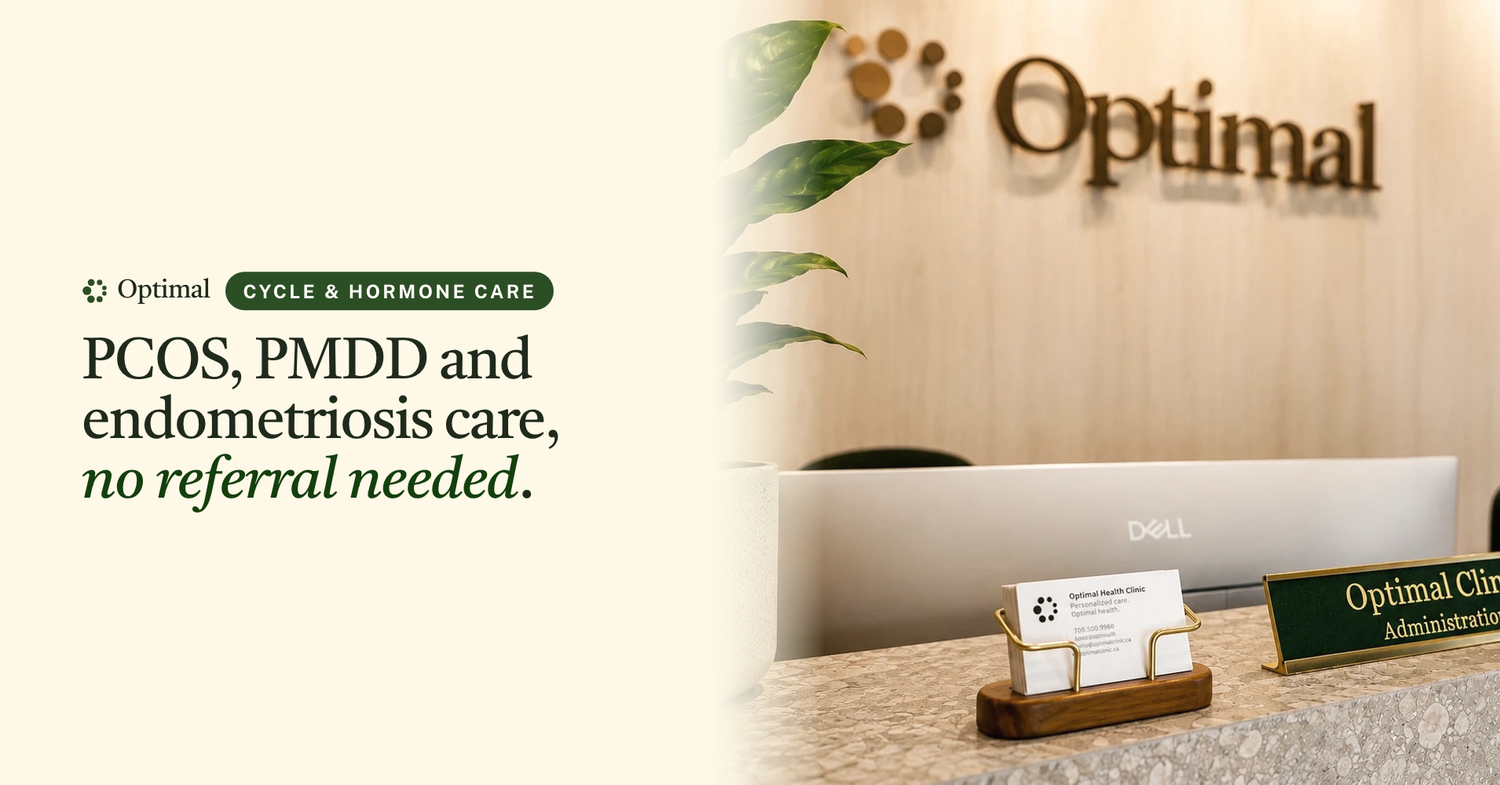
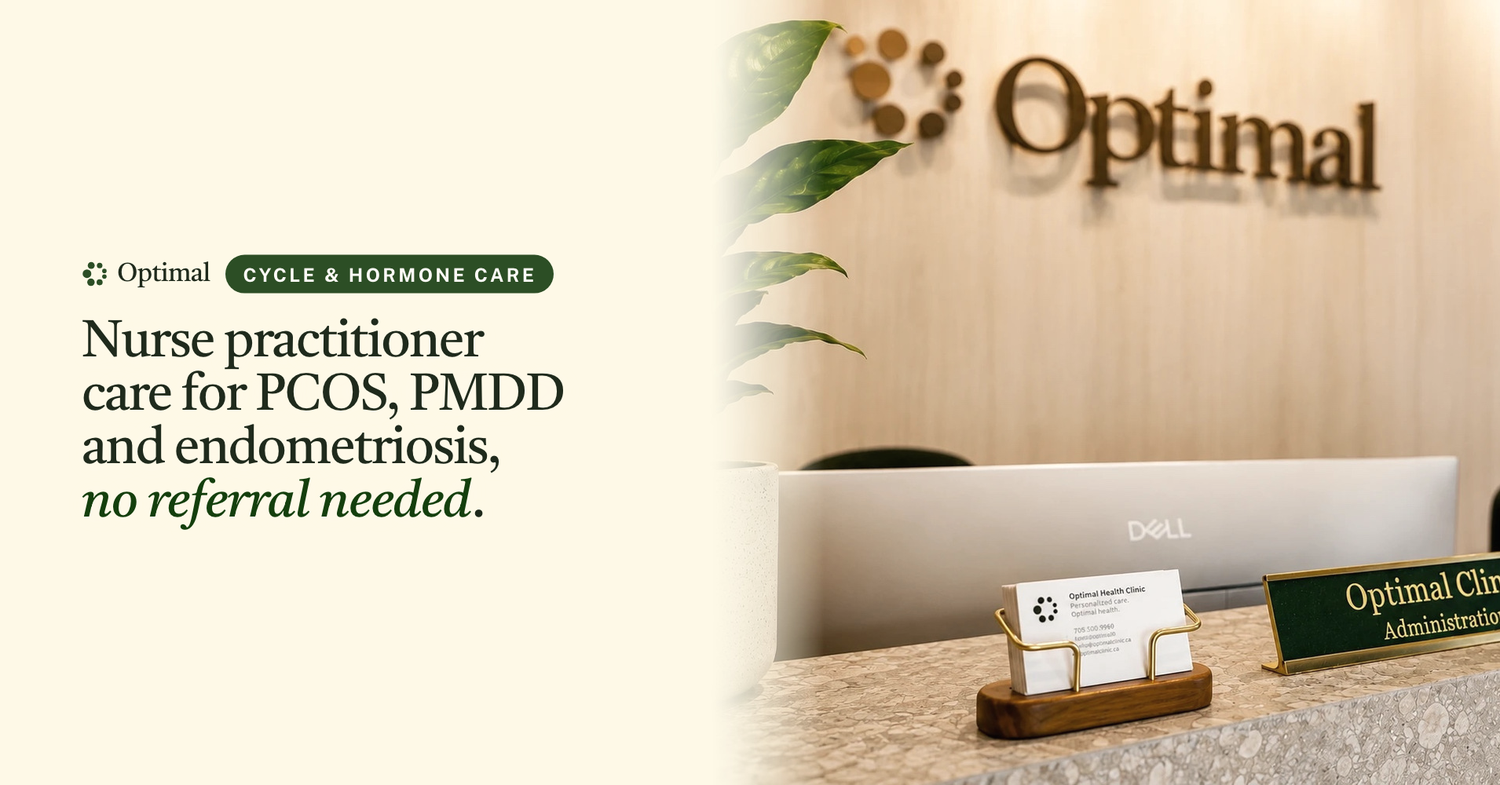
Hand-off site: ads updated Oct 22, 2026

Changed region(s): [[0.0309, 0.31, 0.3707, 0.682]]

diff --git a/index.html b/index.html
@@ -212,16 +212,16 @@
     </div>
     <div>
       <a class="btn" href="https://github.com/Optimal-Research-Team/optimal-ad-handoff/releases/tag/2026-10-12" target="_blank" rel="noopener">All full-quality files ↗</a>
-      <div class="zips">Zips: <a href="https://github.com/Optimal-Research-Team/optimal-ad-handoff/releases/download/2026-10-12/Optimal-static-ads-round-1_2026-10-12.zip" download>Static round 1 · 21 MB</a> <a href="https://github.com/Optimal-Research-Team/optimal-ad-handoff/releases/download/2026-10-12/Optimal-static-ads-round-2_2026-10-12.zip" download>Static round 2 · 72 MB</a> <a href="https://github.com/Optimal-Research-Team/optimal-ad-handoff/releases/download/2026-10-12/Optimal-static-ads-round-3_2026-10-12.zip" download>Static round 3 · 28 MB</a> <a href="https://github.com/Optimal-Research-Team/optimal-ad-handoff/releases/download/2026-10-12/Optimal-IV-iron-ads_2026-10-12.zip" download>IV iron round 1 · 9 MB</a> <a href="https://github.com/Optimal-Research-Team/optimal-ad-handoff/releases/download/2026-10-12/Optimal-IV-iron-ads-round-2_2026-10-12.zip" download>IV iron round 2 · 24 MB</a> <a href="https://github.com/Optimal-Research-Team/optimal-ad-handoff/releases/download/2026-10-12/Optimal-cycle-hormone-statics_2026-10-12.zip" download>Cycle &amp; Hormone statics · 18 MB</a></div>
+      <div class="zips">Zips: <a href="https://github.com/Optimal-Research-Team/optimal-ad-handoff/releases/download/2026-10-12/Optimal-static-ads-round-1_2026-10-12.zip" download>Static round 1 · 21 MB</a> <a href="https://github.com/Optimal-Research-Team/optimal-ad-handoff/releases/download/2026-10-12/Optimal-static-ads-round-2_2026-10-12.zip" download>Static round 2 · 72 MB</a> <a href="https://github.com/Optimal-Research-Team/optimal-ad-handoff/releases/download/2026-10-12/Optimal-static-ads-round-3_2026-10-12.zip" download>Static round 3 · 28 MB</a> <a href="https://github.com/Optimal-Research-Team/optimal-ad-handoff/releases/download/2026-10-12/Optimal-IV-iron-ads_2026-10-12.zip" download>IV iron round 1 · 9 MB</a> <a href="https://github.com/Optimal-Research-Team/optimal-ad-handoff/releases/download/2026-10-12/Optimal-IV-iron-ads-round-2_2026-10-12.zip" download>IV iron round 2 · 24 MB</a> <a href="https://github.com/Optimal-Research-Team/optimal-ad-handoff/releases/download/2026-10-12/Optimal-cycle-hormone-statics_2026-10-12.zip" download>Cycle &amp; Hormone statics · 11 MB</a></div>
     </div>
   </div>
-  <div class="news" id="new"><div class="day latest"><div class="date">Oct 22</div><div><p>New service: Cycle &amp; Hormone Care. Cheryl&#x27;s three video ads (labelled with the program from the first frame), seven one-sentence statics (one Hormozi lever each, funnel-ordered, all pointing to the free 3-minute Cycle Check) and a Google search campaign in four ad groups. Hold everything until the Cycle &amp; Hormone Care page is live (the URL 404s today).</p><div class="ids"><a href="#CV1">CV1</a><a href="#CV2">CV2</a><a href="#CV3">CV3</a><a href="#CS1">CS1</a><a href="#CS2">CS2</a><a href="#CS3">CS3</a><a href="#CS4">CS4</a><a href="#CS5">CS5</a><a href="#CS6">CS6</a><a href="#CS7">CS7</a><a href="#CG1">CG1</a><a href="#CG2">CG2</a><a href="#CG3">CG3</a><a href="#CG4">CG4</a></div></div></div><div class="day"><div class="date">Oct 21</div><div><p>Eight Instagram posts went live, alternating menopause and IV iron: CB1, CB2, MI1, IRT2, MI2, IRT3, MI3, IRT4 (IRT1 was already up). None are on Facebook yet. Chantelle&#x27;s videos: her name title now opens over the room&#x27;s sound instead of dead silence. MV2 shows a blood draw, then the body composition scan. MV3 uses the hormone-levels chart from the menopause page. CB1 loses its opening shot and the 0:30 graphic, and CB2 loses the pause at 0:42.</p><div class="ids"><a href="#ig-CB1">CB1 (post)</a><a href="#ig-CB2">CB2 (post)</a><a href="#ig-MI1">MI1 (post)</a><a href="#ig-IRT2">IRT2 (post)</a><a href="#ig-MI2">MI2 (post)</a><a href="#ig-IRT3">IRT3 (post)</a><a href="#ig-MI3">MI3 (post)</a><a href="#ig-IRT4">IRT4 (post)</a><a href="#MV2">MV2</a><a href="#MV3">MV3</a></div></div></div><div class="day"><div class="date">Oct 20</div><div><p>Chantelle&#x27;s menopause video ads, each in a Tight and a Flow cut. Cheryl&#x27;s four IV iron talking heads. IR1 and IR2 redone with clearer images (IR2 uses the website hero), and IRV1 rebuilt from the hero. IR3 removed. Nine Instagram posts added, most not posted yet.</p><div class="ids"><a href="#MV3">MV3</a><a href="#MV2">MV2</a><a href="#IRT1">IRT1</a><a href="#IRT2">IRT2</a><a href="#IRT3">IRT3</a><a href="#IRT4">IRT4</a><a href="#IR1">IR1</a><a href="#IR2">IR2</a><a href="#IRV1">IRV1</a><a href="#ig-MI1">MI1 (post)</a><a href="#ig-MI2">MI2 (post)</a><a href="#ig-MI3">MI3 (post)</a><a href="#ig-CB1">CB1 (post)</a><a href="#ig-CB2">CB2 (post)</a><a href="#ig-IRT1">IRT1 (post)</a><a href="#ig-IRT2">IRT2 (post)</a><a href="#ig-IRT3">IRT3 (post)</a><a href="#ig-IRT4">IRT4 (post)</a><span class=gone>IR3 removed</span></div></div></div><div class="day"><div class="date">Oct 19</div><div><p>IV iron round 2, one Hormozi lever per ad. Every earlier ad re-made in Meta&#x27;s three ratios (1:1, 9:16, 1.91:1), so nothing gets cropped or boxed. AI-invented clinic rooms retired.</p><div class="ids"><a href="#IR4">IR4</a><a href="#IR5">IR5</a><a href="#IR6">IR6</a><a href="#IRM1">IRM1</a><a href="#IRM2">IRM2</a><a href="#IRV2">IRV2</a><a href="#IRV3">IRV3</a></div></div></div><div class="day"><div class="date">Oct 15</div><div><p>Rubeana&#x27;s longevity video ad, plus two organic posts.</p><div class="ids"><a href="#LV3">LV3-T</a><a href="#ig-RB1">RB1 (post)</a><a href="#ig-CI1">CI1 (post)</a></div></div></div><div class="day"><div class="date">Oct 14</div><div><p>IV iron pre-launch: the founding-waitlist ads on a Meta Instant Form.</p><div class="ids"><a href="#IR1">IR1</a><a href="#IR2">IR2</a><a href="#IRV1">IRV1</a></div></div></div><div class="day"><div class="date">Oct 13</div><div><p>Round 3 engraved concepts, and the Hormozi rewrite of every image line (see How to launch).</p><div class="ids"><a href="#MA1">MA1</a><a href="#MA2">MA2</a><a href="#LA1">LA1</a><a href="#LA2">LA2</a></div></div></div><div class="day"><div class="date">Oct 12</div><div><p>The first set: Cheryl&#x27;s three videos, round 1 and round 2 statics for both services, and both carousels.</p><div class="ids"><a href="#MV1">MV1-T</a><a href="#LV1">LV1-T</a><a href="#LV2">LV2-T</a><a href="#M3">M3</a><a href="#MB1">MB1</a><a href="#MB5">MB5</a><a href="#MC">MC1–5</a><a href="#L1">L1</a><a href="#L2">L2</a><a href="#LB1">LB1</a><a href="#LC">LC1–5</a></div></div></div></div>
+  <div class="news" id="new"><div class="day latest"><div class="date">Oct 22</div><div><p>New service: Cycle &amp; Hormone Care. Cheryl&#x27;s three video ads (labelled with the program from the first frame), four single statics that each stand alone, one 5-card carousel that tells the story in order (hook, symptoms can connect, how we look, 12 weeks, free Cycle Check), and a Google search campaign in four ad groups. Hold everything until the Cycle &amp; Hormone Care page is live (the URL 404s today).</p><div class="ids"><a href="#CV1">CV1</a><a href="#CV2">CV2</a><a href="#CV3">CV3</a><a href="#CC">CC</a><a href="#CS3">CS3</a><a href="#CS4">CS4</a><a href="#CS5">CS5</a><a href="#CS6">CS6</a><a href="#CG1">CG1</a><a href="#CG2">CG2</a><a href="#CG3">CG3</a><a href="#CG4">CG4</a></div></div></div><div class="day"><div class="date">Oct 21</div><div><p>Eight Instagram posts went live, alternating menopause and IV iron: CB1, CB2, MI1, IRT2, MI2, IRT3, MI3, IRT4 (IRT1 was already up). None are on Facebook yet. Chantelle&#x27;s videos: her name title now opens over the room&#x27;s sound instead of dead silence. MV2 shows a blood draw, then the body composition scan. MV3 uses the hormone-levels chart from the menopause page. CB1 loses its opening shot and the 0:30 graphic, and CB2 loses the pause at 0:42.</p><div class="ids"><a href="#ig-CB1">CB1 (post)</a><a href="#ig-CB2">CB2 (post)</a><a href="#ig-MI1">MI1 (post)</a><a href="#ig-IRT2">IRT2 (post)</a><a href="#ig-MI2">MI2 (post)</a><a href="#ig-IRT3">IRT3 (post)</a><a href="#ig-MI3">MI3 (post)</a><a href="#ig-IRT4">IRT4 (post)</a><a href="#MV2">MV2</a><a href="#MV3">MV3</a></div></div></div><div class="day"><div class="date">Oct 20</div><div><p>Chantelle&#x27;s menopause video ads, each in a Tight and a Flow cut. Cheryl&#x27;s four IV iron talking heads. IR1 and IR2 redone with clearer images (IR2 uses the website hero), and IRV1 rebuilt from the hero. IR3 removed. Nine Instagram posts added, most not posted yet.</p><div class="ids"><a href="#MV3">MV3</a><a href="#MV2">MV2</a><a href="#IRT1">IRT1</a><a href="#IRT2">IRT2</a><a href="#IRT3">IRT3</a><a href="#IRT4">IRT4</a><a href="#IR1">IR1</a><a href="#IR2">IR2</a><a href="#IRV1">IRV1</a><a href="#ig-MI1">MI1 (post)</a><a href="#ig-MI2">MI2 (post)</a><a href="#ig-MI3">MI3 (post)</a><a href="#ig-CB1">CB1 (post)</a><a href="#ig-CB2">CB2 (post)</a><a href="#ig-IRT1">IRT1 (post)</a><a href="#ig-IRT2">IRT2 (post)</a><a href="#ig-IRT3">IRT3 (post)</a><a href="#ig-IRT4">IRT4 (post)</a><span class=gone>IR3 removed</span></div></div></div><div class="day"><div class="date">Oct 19</div><div><p>IV iron round 2, one Hormozi lever per ad. Every earlier ad re-made in Meta&#x27;s three ratios (1:1, 9:16, 1.91:1), so nothing gets cropped or boxed. AI-invented clinic rooms retired.</p><div class="ids"><a href="#IR4">IR4</a><a href="#IR5">IR5</a><a href="#IR6">IR6</a><a href="#IRM1">IRM1</a><a href="#IRM2">IRM2</a><a href="#IRV2">IRV2</a><a href="#IRV3">IRV3</a></div></div></div><div class="day"><div class="date">Oct 15</div><div><p>Rubeana&#x27;s longevity video ad, plus two organic posts.</p><div class="ids"><a href="#LV3">LV3-T</a><a href="#ig-RB1">RB1 (post)</a><a href="#ig-CI1">CI1 (post)</a></div></div></div><div class="day"><div class="date">Oct 14</div><div><p>IV iron pre-launch: the founding-waitlist ads on a Meta Instant Form.</p><div class="ids"><a href="#IR1">IR1</a><a href="#IR2">IR2</a><a href="#IRV1">IRV1</a></div></div></div><div class="day"><div class="date">Oct 13</div><div><p>Round 3 engraved concepts, and the Hormozi rewrite of every image line (see How to launch).</p><div class="ids"><a href="#MA1">MA1</a><a href="#MA2">MA2</a><a href="#LA1">LA1</a><a href="#LA2">LA2</a></div></div></div><div class="day"><div class="date">Oct 12</div><div><p>The first set: Cheryl&#x27;s three videos, round 1 and round 2 statics for both services, and both carousels.</p><div class="ids"><a href="#MV1">MV1-T</a><a href="#LV1">LV1-T</a><a href="#LV2">LV2-T</a><a href="#M3">M3</a><a href="#MB1">MB1</a><a href="#MB5">MB5</a><a href="#MC">MC1–5</a><a href="#L1">L1</a><a href="#L2">L2</a><a href="#LB1">LB1</a><a href="#LC">LC1–5</a></div></div></div></div>
 </div></header>
 
 <nav class="tabs"><div class="wrap">
   <a href="#new">What's new</a>
   <a href="#menopause">Menopause<b>18</b></a>
-  <a href="#cycle">Cycle &amp; Hormone<b>14</b></a>
+  <a href="#cycle">Cycle &amp; Hormone<b>12</b></a>
   <a href="#longevity">Longevity<b>18</b></a>
   <a href="#iron">IV iron<b>14</b></a>
   <a href="#instagram">Instagram posts<b>11</b></a>
@@ -565,22 +565,8 @@ Book a free intro call with Cheryl, our care coordinator, to see if it&#x27;s a 
         <div class="twocol"><div class="field"><div class="flabel">Headline<button class="copy" data-copy="Cycle &amp; Hormone Care, now in Barrie">Copy</button></div><div class="val">Cycle &amp; Hormone Care, now in Barrie</div></div><div class="field"><div class="flabel">Description<button class="copy" data-copy="Free intro call · No referral">Copy</button></div><div class="val">Free intro call · No referral</div></div></div><div class="field"><div class="flabel">Alt headline<button class="copy" data-copy="Not just for menopause">Copy</button></div><div class="val">Not just for menopause</div></div>
       </div>
     </article>
-    <div class="group"><h3>Static ads</h3><span>One sentence each, one Hormozi lever each, in funnel order (hooks first, the free Cycle Check last). 1:1, 9:16 and 1.91:1. AI label on for CS3 and CS5 (engravings).</span></div>
+    <div class="group"><h3>Static ads</h3><span>Each single stands on its own: one sentence, one Hormozi lever. 1:1, 9:16 and 1.91:1. AI label on for CS3 and CS5 (engravings).</span></div>
     <div class="grid">
-      <article class="card tile isnew" id="CS1">
-        <img src="static-ads/r9/thumbs/CS1.jpg" alt="CS1" loading="lazy">
-        <div class="tbody"><div><span class="pill hold">Waiting on the landing page</span> <span class="pill new">New</span></div><h4><span class="id">CS1</span>It&#x27;s just part of being a woman. Not always.</h4><span class="when">Added <b>Oct 22</b></span>
-          <div class="dls"><a class="dl primary" href="static-ads/r9/CS1_1x1.png" download><span>1:1</span><em>1 MB</em></a><a class="dl" href="static-ads/r9/CS1_9x16.png" download><span>9:16</span><em>2 MB</em></a><a class="dl" href="static-ads/r9/CS1_1-91x1.png" download><span>1.91:1</span><em>2 MB</em></a></div>
-          <details class="more"><summary>Ad copy</summary><div class="field"><div class="flabel">Primary text<button class="copy" data-copy="&quot;It&#x27;s just part of being a woman.&quot; Painful, heavy or missing periods, mood that crashes before a period, acne and hair changes are common, but common doesn&#x27;t mean they&#x27;re something to push through. Optimal&#x27;s Cycle &amp; Hormone Care program in Barrie starts with a free 3-minute Cycle Check. No referral needed.">Copy</button></div><textarea readonly rows="4">&quot;It&#x27;s just part of being a woman.&quot; Painful, heavy or missing periods, mood that crashes before a period, acne and hair changes are common, but common doesn&#x27;t mean they&#x27;re something to push through. Optimal&#x27;s Cycle &amp; Hormone Care program in Barrie starts with a free 3-minute Cycle Check. No referral needed.</textarea></div><div class="field"><div class="flabel">Headline<button class="copy" data-copy="Common doesn&#x27;t mean normal">Copy</button></div><div class="val">Common doesn&#x27;t mean normal</div></div><div class="field"><div class="flabel">Description<button class="copy" data-copy="Free 3-min Cycle Check · Barrie">Copy</button></div><div class="val">Free 3-min Cycle Check · Barrie</div></div></details>
-        </div>
-      </article>
-      <article class="card tile isnew" id="CS2">
-        <img src="static-ads/r9/thumbs/CS2.jpg" alt="CS2" loading="lazy">
-        <div class="tbody"><div><span class="pill hold">Waiting on the landing page</span> <span class="pill new">New</span></div><h4><span class="id">CS2</span>Acne, irregular periods and sugar crashes can be connected.</h4><span class="when">Added <b>Oct 22</b></span>
-          <div class="dls"><a class="dl primary" href="static-ads/r9/CS2_1x1.png" download><span>1:1</span><em>250 KB</em></a><a class="dl" href="static-ads/r9/CS2_9x16.png" download><span>9:16</span><em>298 KB</em></a><a class="dl" href="static-ads/r9/CS2_1-91x1.png" download><span>1.91:1</span><em>254 KB</em></a></div>
-          <details class="more"><summary>Ad copy</summary><div class="field"><div class="flabel">Primary text<button class="copy" data-copy="Acne along the jaw, irregular periods and sugar crashes often get treated as three separate problems. They can be connected, so androgens, insulin, thyroid and the cycle hormones are worth looking at together. Start with the free 3-minute Cycle Check. No referral needed.">Copy</button></div><textarea readonly rows="4">Acne along the jaw, irregular periods and sugar crashes often get treated as three separate problems. They can be connected, so androgens, insulin, thyroid and the cycle hormones are worth looking at together. Start with the free 3-minute Cycle Check. No referral needed.</textarea></div><div class="field"><div class="flabel">Headline<button class="copy" data-copy="Looked at together, in Barrie">Copy</button></div><div class="val">Looked at together, in Barrie</div></div><div class="field"><div class="flabel">Description<button class="copy" data-copy="Cycle &amp; Hormone Care · No referral">Copy</button></div><div class="val">Cycle &amp; Hormone Care · No referral</div></div></details>
-        </div>
-      </article>
       <article class="card tile isnew" id="CS3">
         <img src="static-ads/r9/thumbs/CS3.jpg" alt="CS3" loading="lazy">
         <div class="tbody"><div><span class="pill hold">Waiting on the landing page</span> <span class="pill new">New</span></div><h4><span class="id">CS3</span>Painful, heavy or missing periods deserve a proper look.</h4><span class="when">Added <b>Oct 22</b></span>
@@ -604,18 +590,15 @@ Book a free intro call with Cheryl, our care coordinator, to see if it&#x27;s a 
       </article>
       <article class="card tile isnew" id="CS6">
         <img src="static-ads/r9/thumbs/CS6.jpg" alt="CS6" loading="lazy">
-        <div class="tbody"><div><span class="pill hold">Waiting on the landing page</span> <span class="pill new">New</span></div><h4><span class="id">CS6</span>PCOS, PMDD and endometriosis care, no referral needed.</h4><span class="when">Added <b>Oct 22</b></span>
-          <div class="dls"><a class="dl primary" href="static-ads/r9/CS6_1x1.png" download><span>1:1</span><em>739 KB</em></a><a class="dl" href="static-ads/r9/CS6_9x16.png" download><span>9:16</span><em>1 MB</em></a><a class="dl" href="static-ads/r9/CS6_1-91x1.png" download><span>1.91:1</span><em>1 MB</em></a></div>
+        <div class="tbody"><div><span class="pill hold">Waiting on the landing page</span> <span class="pill new">New</span></div><h4><span class="id">CS6</span>Nurse practitioner care for PCOS, PMDD and endometriosis, no referral needed.</h4><span class="when">Added <b>Oct 22</b></span>
+          <div class="dls"><a class="dl primary" href="static-ads/r9/CS6_1x1.png" download><span>1:1</span><em>756 KB</em></a><a class="dl" href="static-ads/r9/CS6_9x16.png" download><span>9:16</span><em>1 MB</em></a><a class="dl" href="static-ads/r9/CS6_1-91x1.png" download><span>1.91:1</span><em>1 MB</em></a></div>
           <details class="more"><summary>Ad copy</summary><div class="field"><div class="flabel">Primary text<button class="copy" data-copy="Cycle &amp; Hormone Care in Barrie for PCOS/PMOS, PMS/PMDD, endometriosis and adenomyosis, irregular periods, and hormonal acne or hair changes. The same nurse practitioner every visit. No referral needed. Start with the free 3-minute Cycle Check.">Copy</button></div><textarea readonly rows="4">Cycle &amp; Hormone Care in Barrie for PCOS/PMOS, PMS/PMDD, endometriosis and adenomyosis, irregular periods, and hormonal acne or hair changes. The same nurse practitioner every visit. No referral needed. Start with the free 3-minute Cycle Check.</textarea></div><div class="field"><div class="flabel">Headline<button class="copy" data-copy="No referral needed">Copy</button></div><div class="val">No referral needed</div></div><div class="field"><div class="flabel">Description<button class="copy" data-copy="PCOS · PMDD · Endometriosis · Barrie">Copy</button></div><div class="val">PCOS · PMDD · Endometriosis · Barrie</div></div></details>
         </div>
-      </article>
-      <article class="card tile isnew" id="CS7">
-        <img src="static-ads/r9/thumbs/CS7.jpg" alt="CS7" loading="lazy">
-        <div class="tbody"><div><span class="pill hold">Waiting on the landing page</span> <span class="pill new">New</span></div><h4><span class="id">CS7</span>Start with a free 3-minute Cycle Check.</h4><span class="when">Added <b>Oct 22</b></span>
-          <div class="dls"><a class="dl primary" href="static-ads/r9/CS7_1x1.png" download><span>1:1</span><em>926 KB</em></a><a class="dl" href="static-ads/r9/CS7_9x16.png" download><span>9:16</span><em>1 MB</em></a><a class="dl" href="static-ads/r9/CS7_1-91x1.png" download><span>1.91:1</span><em>2 MB</em></a></div>
-          <details class="more"><summary>Ad copy</summary><div class="field"><div class="flabel">Primary text<button class="copy" data-copy="You don&#x27;t have to diagnose yourself before asking for help. The free 3-minute Cycle Check shows which program fits, then our care coordinator calls to talk it through. No referral needed.">Copy</button></div><textarea readonly rows="4">You don&#x27;t have to diagnose yourself before asking for help. The free 3-minute Cycle Check shows which program fits, then our care coordinator calls to talk it through. No referral needed.</textarea></div><div class="field"><div class="flabel">Headline<button class="copy" data-copy="Take the free Cycle Check">Copy</button></div><div class="val">Take the free Cycle Check</div></div><div class="field"><div class="flabel">Description<button class="copy" data-copy="3 minutes · No referral · Barrie">Copy</button></div><div class="val">3 minutes · No referral · Barrie</div></div></details>
-        </div>
       </article></div>
+    
+    <div class="group"><h3>Carousel</h3><span>Five 1:1 cards, uploaded as ONE carousel ad, in this order. Use each card's headline; the primary text is shared.</span></div>
+    <article class="card carousel" id="CC"><span class="pill hold">Waiting on the landing page</span> <span class="pill new">New</span><h3 style="margin-top:6px"><span class="id">CC1–CC5</span>Cycle &amp; Hormone Care carousel</h3><span class="when">Added <b>Oct 22</b></span>
+      <div class="cards"><figure><img src="static-ads/r9/thumbs/CC1.jpg" alt="CC1" loading="lazy"><figcaption><b>CC1</b> · Common isn&#x27;t the same as normal<div class="dls"><a class="dl primary" href="static-ads/r9/CC1_card1_1x1.png" download><span>Card</span><em>1 MB</em></a></div></figcaption></figure><figure><img src="static-ads/r9/thumbs/CC2.jpg" alt="CC2" loading="lazy"><figcaption><b>CC2</b> · Symptoms can share a cause<div class="dls"><a class="dl primary" href="static-ads/r9/CC2_card2_1x1.png" download><span>Card</span><em>251 KB</em></a></div></figcaption></figure><figure><img src="static-ads/r9/thumbs/CC3.jpg" alt="CC3" loading="lazy"><figcaption><b>CC3</b> · Bloodwork timed to your cycle<div class="dls"><a class="dl primary" href="static-ads/r9/CC3_card3_1x1.png" download><span>Card</span><em>686 KB</em></a></div></figcaption></figure><figure><img src="static-ads/r9/thumbs/CC4.jpg" alt="CC4" loading="lazy"><figcaption><b>CC4</b> · 12 weeks to a clear plan<div class="dls"><a class="dl primary" href="static-ads/r9/CC4_card4_1x1.png" download><span>Card</span><em>220 KB</em></a></div></figcaption></figure><figure><img src="static-ads/r9/thumbs/CC5.jpg" alt="CC5" loading="lazy"><figcaption><b>CC5</b> · Take the free 3-min Cycle Check<div class="dls"><a class="dl primary" href="static-ads/r9/CC5_card5_1x1.png" download><span>Card</span><em>934 KB</em></a></div></figcaption></figure></div><div class="field"><div class="flabel">Primary text<button class="copy" data-copy="“It&#x27;s just part of being a woman.” Not always. Painful, heavy or irregular periods, acne, sugar crashes and mood that crashes before a period can be connected, and they deserve a proper look. Swipe to see how Optimal&#x27;s Cycle &amp; Hormone Care program in Barrie works, then start with the free 3-minute Cycle Check. No referral needed.">Copy</button></div><textarea readonly rows="3">“It&#x27;s just part of being a woman.” Not always. Painful, heavy or irregular periods, acne, sugar crashes and mood that crashes before a period can be connected, and they deserve a proper look. Swipe to see how Optimal&#x27;s Cycle &amp; Hormone Care program in Barrie works, then start with the free 3-minute Cycle Check. No referral needed.</textarea></div></article>
     <div class="group"><h3>Google Ads (Search)</h3><span>Campaign <code>CHC · Cycle &amp; Hormone Care · Barrie · Search</code>: four ad groups, one RSA each. Full build sheet with settings, sitelinks, callouts and negatives: <a href="files/GOOGLE-ADS-CYCLE.md" target="_blank" rel="noopener">GOOGLE-ADS-CYCLE.md</a>.</span></div>
     <div class="grid">
       <article class="card tile isnew" id="CG1">
@@ -1369,7 +1352,7 @@ Educational content only. Not medical advice.
   <label class="check"><input type="checkbox" data-k="g-l"><span><b>Upload the Longevity Test now ads</b> in rank order: LV1-T, L1, L2, LB1, LB2, LB3.</span></label>
   <label class="check"><input type="checkbox" data-k="g-ab"><span><b>Set up the Chantelle vs Cheryl test:</b> MV1-T against MV3-T as a Meta A/B test (equal budgets).</span></label>
   <label class="check"><input type="checkbox" data-k="g-ai"><span><b>Turn on Meta's AI label</b> for every round 2 and round 3 ad, CV2 and MV2, and wherever an IV iron card says so.</span></label>
-  <label class="check"><input type="checkbox" data-k="g-cv"><span><b>Cycle & Hormone Care (CV1–CV3, CS1–CS7, CG1–CG4):</b> launch only once beoptimal.ca/services/cycle-and-hormone-care is live. Meta: own ad set, women 18–45, AI label on CV2, CS3 and CS5. Google: build from GOOGLE-ADS-CYCLE.md (CHC campaign).</span></label>
+  <label class="check"><input type="checkbox" data-k="g-cv"><span><b>Cycle & Hormone Care (CV1–CV3, CS3–CS6, CC, CG1–CG4):</b> launch only once beoptimal.ca/services/cycle-and-hormone-care is live. Meta: own ad set, women 18–45, AI label on CV2, CS3, CS5 and the CC carousel. Google: build from GOOGLE-ADS-CYCLE.md (CHC campaign).</span></label>
   <label class="check"><input type="checkbox" data-k="g-copy"><span><b>Name every ad with its ID</b> and paste the copy from its card. Keep the URL parameters exactly as written.</span></label>
   <label class="check"><input type="checkbox" data-k="g-pub"><span><b>Publish, then don't touch it for 7 days.</b></span></label></div></details>
     <details class="box"><summary>Upload an ad in Meta Ads Manager</summary><div class="inner">

diff --git a/template.html b/template.html
@@ -246,8 +246,9 @@
     <div class="setup">{{CYCLE_SETUP}}</div>
     <div class="group"><h3>Video ads</h3><span>9:16, 1:1 and 1.91:1 per ad. Each opens with the CYCLE &amp; HORMONE CARE badge.</span></div>
     {{CYCLE_VIDEOS}}
-    <div class="group"><h3>Static ads</h3><span>One sentence each, one Hormozi lever each, in funnel order (hooks first, the free Cycle Check last). 1:1, 9:16 and 1.91:1. AI label on for CS3 and CS5 (engravings).</span></div>
+    <div class="group"><h3>Static ads</h3><span>Each single stands on its own: one sentence, one Hormozi lever. 1:1, 9:16 and 1.91:1. AI label on for CS3 and CS5 (engravings).</span></div>
     <div class="grid">{{CYCLE_STATICS}}</div>
+    {{CYCLE_CAROUSEL}}
     <div class="group"><h3>Google Ads (Search)</h3><span>Campaign <code>CHC · Cycle &amp; Hormone Care · Barrie · Search</code>: four ad groups, one RSA each. Full build sheet with settings, sitelinks, callouts and negatives: <a href="files/GOOGLE-ADS-CYCLE.md" target="_blank" rel="noopener">GOOGLE-ADS-CYCLE.md</a>.</span></div>
     <div class="grid">{{CYCLE_GOOGLE}}</div>
   </section>

diff --git a/build.py b/build.py
@@ -46,8 +46,8 @@ VIDEOS = [  # id, service, folder in meta-ad-studio/out, render name, the line o
     ("CV2", "cycle", "cycle-told-normal", "CycleToldNormal", "“That’s just part of being a woman.”", [("A", "Ad")]),
     ("CV3", "cycle", "cycle-program-intro", "CycleProgramIntro", "Hormone care isn’t just for menopause.", [("A", "Ad")]),
 ]
-WAITING = {k: "Waiting on the landing page" for k in ("CV1", "CV2", "CV3", "CS1", "CS2", "CS3", "CS4", "CS5", "CS6",
-                                                    "CS7", "CG1", "CG2", "CG3", "CG4")}   # /services/cycle-and-hormone-care 404s (Oct 22)
+WAITING = {k: "Waiting on the landing page" for k in ("CV1", "CV2", "CV3", "CS3", "CS4", "CS5", "CS6", "CC",
+                                                    "CG1", "CG2", "CG3", "CG4")}   # /services/cycle-and-hormone-care 404s (Oct 22)
 SOCIALS = [  # organic-only reels: kept OFF the ads site (Peter, Oct 15), so the list stays empty; the format is kept for later
 ] and [
     ("RB1", "rubeana-bio", "RubeanaBio_Reel_9x16", "RubeanaBio_cover_9x16", "Meet Rubeana, our Clinical Director."),
@@ -249,6 +249,13 @@ def cycle_copy():
             for m in re.finditer(r'### (CS\d) · "(.*?)"[^\n]*\n\*\*Primary text:\*\* (.*?)\n\*\*Headline:\*\* (.*?) · \*\*Description:\*\* (.*?)\n', doc)}
 
 
+def cycle_carousel():
+    """Cycle & Hormone Care carousel CC1-CC5 (Oct 22, round 3): shared primary text + one headline per card"""
+    doc = open(os.path.join(STUDIO, "static/COPY-CYCLE.md")).read()
+    return dict(primary=re.search(r"\*\*Carousel primary text:\*\* (.*)", doc)[1].strip(),
+                cards=re.findall(r"^\| (CC\d) \| (.*?) \| (.*?) \|$", doc, re.M))
+
+
 def google_groups(name="GOOGLE-ADS-CYCLE.md"):
     """Ad groups of a Google build sheet: [(id, title, keywords, headlines, descriptions)]"""
     doc = open(os.path.join(STUDIO, "static", name)).read()
@@ -346,7 +353,7 @@ ADDED = {**{k: D12 for k in ("M1 M2 M3 M4 M5 M6 L1 L2 L3 L4 L5 L6 MB1 MB2 MB3 MB
          "LV3": D15,
          **{k: D19 for k in ("IR4", "IR5", "IR6", "IRM1", "IRM2", "IRV2", "IRV3")},
          **{k: D20 for k in ("IRT1", "IRT2", "IRT3", "IRT4", "MV2", "MV3")},
-         **{k: D22 for k in ("CV1", "CV2", "CV3", "CS1", "CS2", "CS3", "CS4", "CS5", "CS6", "CS7", "CG1", "CG2", "CG3", "CG4")}}
+         **{k: D22 for k in ("CV1", "CV2", "CV3", "CS3", "CS4", "CS5", "CS6", "CC", "CG1", "CG2", "CG3", "CG4")}}
 CHANGED = {"IR1": (D20, "new image and headline"), "IR2": (D20, "new image: the website hero"),
            "IRV1": (D20, "rebuilt from the website hero, animated"),
            "MV2": (D21, "blood-draw and body-scan pictures; softer opening"),
@@ -357,10 +364,11 @@ CHANGED = {"IR1": (D20, "new image and headline"), "IR2": (D20, "new image: the 
 REMOVED = {"IR3": D20}
 SHORT = {"9x16": "9:16", "1x1": "1:1", "1-91x1": "1.91:1"}
 NEWS = [  # (date, what happened, ids that link to cards, ids removed)
-    (D22, "New service: Cycle & Hormone Care. Cheryl's three video ads (labelled with the program from the first frame), seven "
-          "one-sentence statics (one Hormozi lever each, funnel-ordered, all pointing to the free 3-minute Cycle Check) and a Google search "
-          "campaign in four ad groups. Hold everything until the Cycle & Hormone Care page is live (the URL 404s today).",
-     ["CV1", "CV2", "CV3", "CS1", "CS2", "CS3", "CS4", "CS5", "CS6", "CS7", "CG1", "CG2", "CG3", "CG4"], []),
+    (D22, "New service: Cycle & Hormone Care. Cheryl's three video ads (labelled with the program from the first frame), four "
+          "single statics that each stand alone, one 5-card carousel that tells the story in order (hook, symptoms can "
+          "connect, how we look, 12 weeks, free Cycle Check), and a Google search campaign in four ad groups. Hold everything "
+          "until the Cycle & Hormone Care page is live (the URL 404s today).",
+     ["CV1", "CV2", "CV3", "CC", "CS3", "CS4", "CS5", "CS6", "CG1", "CG2", "CG3", "CG4"], []),
     (D21, "Eight Instagram posts went live, alternating menopause and IV iron: CB1, CB2, MI1, IRT2, MI2, IRT3, MI3, IRT4 "
           "(IRT1 was already up). None are on Facebook yet. Chantelle's videos: her name title now opens over the room's "
           "sound instead of dead silence. MV2 shows a blood draw, then the body composition scan. MV3 uses the "
@@ -448,7 +456,7 @@ CHECKLIST = '''
   <label class="check"><input type="checkbox" data-k="g-l"><span><b>Upload the Longevity Test now ads</b> in rank order: LV1-T, L1, L2, LB1, LB2, LB3.</span></label>
   <label class="check"><input type="checkbox" data-k="g-ab"><span><b>Set up the Chantelle vs Cheryl test:</b> MV1-T against MV3-T as a Meta A/B test (equal budgets).</span></label>
   <label class="check"><input type="checkbox" data-k="g-ai"><span><b>Turn on Meta's AI label</b> for every round 2 and round 3 ad, CV2 and MV2, and wherever an IV iron card says so.</span></label>
-  <label class="check"><input type="checkbox" data-k="g-cv"><span><b>Cycle & Hormone Care (CV1–CV3, CS1–CS7, CG1–CG4):</b> launch only once beoptimal.ca/services/cycle-and-hormone-care is live. Meta: own ad set, women 18–45, AI label on CV2, CS3 and CS5. Google: build from GOOGLE-ADS-CYCLE.md (CHC campaign).</span></label>
+  <label class="check"><input type="checkbox" data-k="g-cv"><span><b>Cycle & Hormone Care (CV1–CV3, CS3–CS6, CC, CG1–CG4):</b> launch only once beoptimal.ca/services/cycle-and-hormone-care is live. Meta: own ad set, women 18–45, AI label on CV2, CS3, CS5 and the CC carousel. Google: build from GOOGLE-ADS-CYCLE.md (CHC campaign).</span></label>
   <label class="check"><input type="checkbox" data-k="g-copy"><span><b>Name every ad with its ID</b> and paste the copy from its card. Keep the URL parameters exactly as written.</span></label>
   <label class="check"><input type="checkbox" data-k="g-pub"><span><b>Publish, then don't touch it for 7 days.</b></span></label>'''
 
@@ -616,6 +624,21 @@ def build():
     cyc = cycle_copy()
     cycle_statics = [static_tile(ad, cyc[ad]["title"], cyc[ad]["primary"], cyc[ad]["headline"], cyc[ad]["description"],
                                  simgs(cdir, ad), "r9", svc="cycle") for ad in sorted(cyc)]
+    cc = cycle_carousel()
+    cards = []
+    for i, (cid, onimg, chead) in enumerate(cc["cards"], 1):
+        src = os.path.join(sdir, "r9", "cycle-carousel", f"{cid}_card{i}_1x1.png")
+        rel = put(src, f"static-ads/r9/{os.path.basename(src)}")
+        zips["r9"].append((src, f"CC carousel/{os.path.basename(src)}"))
+        th = thumb(src, f"static-ads/r9/thumbs/{cid}.jpg", 360)
+        cards.append(f'<figure><img src="{th}" alt="{cid}" loading="lazy"><figcaption><b>{cid}</b> · {esc(chead)}'
+                     f'<div class="dls">{dl(rel, "Card", mb(src), True)}</div></figcaption></figure>')
+    isnew, newpill, whenline = when("CC")
+    n["cycle"] += 1
+    cycle_carousel_html = f'''
+    <div class="group"><h3>Carousel</h3><span>Five 1:1 cards, uploaded as ONE carousel ad, in this order. Use each card's headline; the primary text is shared.</span></div>
+    <article class="card carousel" id="CC">{status("CC")} {newpill}<h3 style="margin-top:6px"><span class="id">CC1–CC5</span>Cycle &amp; Hormone Care carousel</h3>{whenline}
+      <div class="cards">{"".join(cards)}</div>{copy_field("Primary text", cc["primary"], 3)}</article>'''
     cycle_google = []
     for gid, title, kws, hs, ds, pin in google_groups():
         isnew, newpill, whenline = when(gid)
@@ -748,7 +771,7 @@ def build():
                         + kv("Call to action", "Learn more (CV1, CV2) · Book now (CV3)")
                         + kv("Audience", "Women 18–45, about 40 km around Barrie, broad")),
         "CYCLE_VIDEOS": "".join(vids["cycle"]), "N_CYCLE": str(n["cycle"]),
-        "CYCLE_STATICS": "".join(cycle_statics), "CYCLE_GOOGLE": "".join(cycle_google),
+        "CYCLE_STATICS": "".join(cycle_statics), "CYCLE_GOOGLE": "".join(cycle_google), "CYCLE_CAROUSEL": cycle_carousel_html,
         "LONG_SETUP": setup("longevity", "Adults 35–70, about 40 km around Barrie, broad"),
         "IRON_SETUP": iron_setup, "IRON_HOWTO": iron_howto,
         "MENO_VIDEOS": "".join(vids["menopause"]), "LONG_VIDEOS": "".join(vids["longevity"]),

diff --git a/files/COPY-CYCLE.md b/files/COPY-CYCLE.md
@@ -1,28 +1,35 @@
-# Cycle & Hormone Care: Meta static ads CS1–CS7 (Oct 22, 2026)
+# Cycle & Hormone Care: Meta statics, 4 singles (CS3–CS6) + 1 carousel (CC1–CC5), Oct 22, 2026
 
-Peter asked for Hormozi-style concepts and said "simple is good". Round 2 came the same day, after "iterate and think even more carefully". There are seven statics, one sentence each. Each one pulls a single lever, and they're ordered like a funnel (hooks first, the offer last). They all lead to the same free offer, the 3-minute Cycle Check, and they run beside Cheryl's three videos (CV1–CV3, `VIDEO-ADS.md`).
+There are three rounds, all on Oct 22:
+- **Round 1:** six one-sentence singles, one Hormozi lever each.
+- **Round 2:** the program badge, two dark frames, a quote poster.
+- **Round 3:** Peter said "CS1, CS2, CS6, CS7 literally don't make sense in isolation". They were written as one funnel sequence and shipped as singles. Now the lines that lean on each other are **one 5-card carousel**, and **every single stands alone**: it says what it is, who provides it and why it matters, plus the CYCLE & HORMONE CARE badge.
+
+**Singles (each makes sense on its own):**
 
 | Ad | Lever | On the image | Art |
 |---|---|---|---|
-| CS1 | Hook: the dismissal women hear | “It's just part of being a woman.” *Not always.* | Typographic poster on deep forest |
-| CS2 | Curiosity: symptoms can share a cause | Acne, irregular periods and sugar crashes *can be connected*. | Three coloured nodes, linked |
 | CS3 | Problem, specific | Painful, heavy or missing periods deserve *a proper look*. | Engraving: uterus and ovaries (AI) |
-| CS4 | Dream outcome + time | 12 weeks to *a plan you understand*. | The program in 3 big steps: Day 1 → Then → Week 12 |
+| CS4 | Dream outcome + time | 12 weeks to *a plan you understand*. | The program in 3 big steps: Free Cycle Check → bloodwork + 60-min NP visit → your plan |
 | CS5 | Likelihood + cost | Bloodwork *timed to your cycle*, covered by OHIP. | Engraving: blood tubes and a calendar with two dates circled (AI) |
-| CS6 | Effort: no referral | PCOS, PMDD and endometriosis care, *no referral needed*. | **Real** front desk under the Optimal logo wall |
-| CS7 | The one free offer | Start with a free *3‑minute Cycle Check*. | The Cycle Check's first screen, on deep forest |
+| CS6 | Effort: no referral | Nurse practitioner care for PCOS, PMDD and endometriosis, *no referral needed*. | **Real** front desk under the Optimal logo wall |
 
-**Round 2 changes.**
-- **Program badge:** every ad now names the program with a CYCLE & HORMONE CARE pill beside the mark, as the videos do from frame 0.
-- **Backgrounds:** two frames (CS1, CS7) are deep forest, so Meta doesn't read the set as one creative.
-- **CS1:** the vague "Real symptoms deserve real answers." became the quote poster, the strongest hook from CV2.
-- **New CS2:** a curiosity angle with specific symptoms.
-- **CS4:** the 5-stop path is now 3 big steps, readable at feed size.
-- **CS6:** the desk line dropped "in Barrie" (the logo wall already says local) and runs 3 lines instead of 4.
-- **Retired:** CS1 v1 (the consult room).
+**Carousel CC1 → CC5 (one ad, swipe order, 1:1 cards).** The order runs hook → problem → mechanism → outcome → offer:
+
+| Card | On the image | Card headline |
+|---|---|---|
+| CC1 | “It's just part of being a woman.” *Not always.* | Common isn't the same as normal |
+| CC2 | Acne, irregular periods and sugar crashes *can be connected*. | Symptoms can share a cause |
+| CC3 | So we look at them together, with bloodwork *timed to your cycle*. | Bloodwork timed to your cycle |
+| CC4 | In 12 weeks, *a plan you understand*. | 12 weeks to a clear plan |
+| CC5 | No referral needed: start with a free *3‑minute Cycle Check*. | Take the free 3-min Cycle Check |
+
+**Carousel primary text:** “It's just part of being a woman.” Not always. Painful, heavy or irregular periods, acne, sugar crashes and mood that crashes before a period can be connected, and they deserve a proper look. Swipe to see how Optimal's Cycle & Hormone Care program in Barrie works, then start with the free 3-minute Cycle Check. No referral needed.
+
+**Retired as singles:** CS1 (became CC1), CS2 (became CC2) and CS7 (became CC5).
 
 ```
-python3 gen/r9/art.py && python3 render.py --page cycle   # art -> assets/r9, ads -> out/r9/cycle/CS1–CS7 _1x1 _9x16 _1-91x1, QA
+python3 gen/r9/art.py && python3 render.py --page cycle   # art -> assets/r9, ads -> out/r9/cycle/CS3–CS6 + out/r9/cycle-carousel/CC1–CC5 _1x1 _9x16 _1-91x1, QA
 ```
 
 **Guardrails.** These apply to the images and to the copy below.
@@ -39,19 +46,11 @@ python3 gen/r9/art.py && python3 render.py --page cycle   # art -> assets/r9, ad
 | Website URL | `https://www.beoptimal.ca/services/cycle-and-hormone-care`. **It 404s on Oct 22** (Jeremy's preview branch only), so don't launch until it's live |
 | URL parameters | `utm_source={{site_source_name}}&utm_medium=paid&utm_campaign={{campaign.id}}&utm_term={{adset.id}}&utm_content={{ad.id}}` |
 | Audience | Women 18–45, about 40 km around Barrie, broad (no interests) |
-| Ads | CS1–CS7 + CV1–CV3 in one ad set; placement asset customization (1:1 Feed, 9:16 Stories/Reels, 1.91:1 right column) |
+| Ads | Singles CS3–CS6 + the carousel CC + the videos CV1–CV3 in one ad set. Singles use placement asset customization (1:1 Feed, 9:16 Stories/Reels, 1.91:1 right column); the carousel is five 1:1 cards |
 | CTA button | Learn more |
-| AI label | **On** for CS3 and CS5 (AI engravings). **Off** for CS6 (real photo) and CS1, CS2, CS4, CS7 (drawn graphics) |
+| AI label | **On** for CS3, CS5 and the carousel CC (card 3 is the AI tube engraving). **Off** for CS4 (drawn) and CS6 (real photo) |
 
-## Copy
-
-### CS1 · "It's just part of being a woman. Not always." (hook)
-**Primary text:** "It's just part of being a woman." Painful, heavy or missing periods, mood that crashes before a period, acne and hair changes are common, but common doesn't mean they're something to push through. Optimal's Cycle & Hormone Care program in Barrie starts with a free 3-minute Cycle Check. No referral needed.
-**Headline:** Common doesn't mean normal · **Description:** Free 3-min Cycle Check · Barrie
-
-### CS2 · "Acne, irregular periods and sugar crashes can be connected." (curiosity)
-**Primary text:** Acne along the jaw, irregular periods and sugar crashes often get treated as three separate problems. They can be connected, so androgens, insulin, thyroid and the cycle hormones are worth looking at together. Start with the free 3-minute Cycle Check. No referral needed.
-**Headline:** Looked at together, in Barrie · **Description:** Cycle & Hormone Care · No referral
+## Singles: copy
 
 ### CS3 · "Painful, heavy or missing periods deserve a proper look." (problem, specific)
 **Primary text:** Painful, heavy or missing periods are common, but they deserve a proper look. Our nurse practitioner assesses pain, bleeding and iron, and arranges imaging or a referral when it's needed. Start with the free 3-minute Cycle Check. No referral needed.
@@ -65,10 +64,7 @@ python3 gen/r9/art.py && python3 render.py --page cycle   # art -> assets/r9, ad
 **Primary text:** Some hormone tests only make sense on certain days of the cycle, so we time the bloodwork to it. OHIP covers the bloodwork, and our nurse practitioner walks through every result with you in a 60-minute visit. Start with the free 3-minute Cycle Check.
 **Headline:** Bloodwork timed to your cycle · **Description:** OHIP-covered · NP-reviewed · Barrie
 
-### CS6 · "PCOS, PMDD and endometriosis care, no referral needed." (effort)
+### CS6 · "Nurse practitioner care for PCOS, PMDD and endometriosis, no referral needed." (effort)
 **Primary text:** Cycle & Hormone Care in Barrie for PCOS/PMOS, PMS/PMDD, endometriosis and adenomyosis, irregular periods, and hormonal acne or hair changes. The same nurse practitioner every visit. No referral needed. Start with the free 3-minute Cycle Check.
 **Headline:** No referral needed · **Description:** PCOS · PMDD · Endometriosis · Barrie
 
-### CS7 · "Start with a free 3-minute Cycle Check." (the free offer)
-**Primary text:** You don't have to diagnose yourself before asking for help. The free 3-minute Cycle Check shows which program fits, then our care coordinator calls to talk it through. No referral needed.
-**Headline:** Take the free Cycle Check · **Description:** 3 minutes · No referral · Barrie
